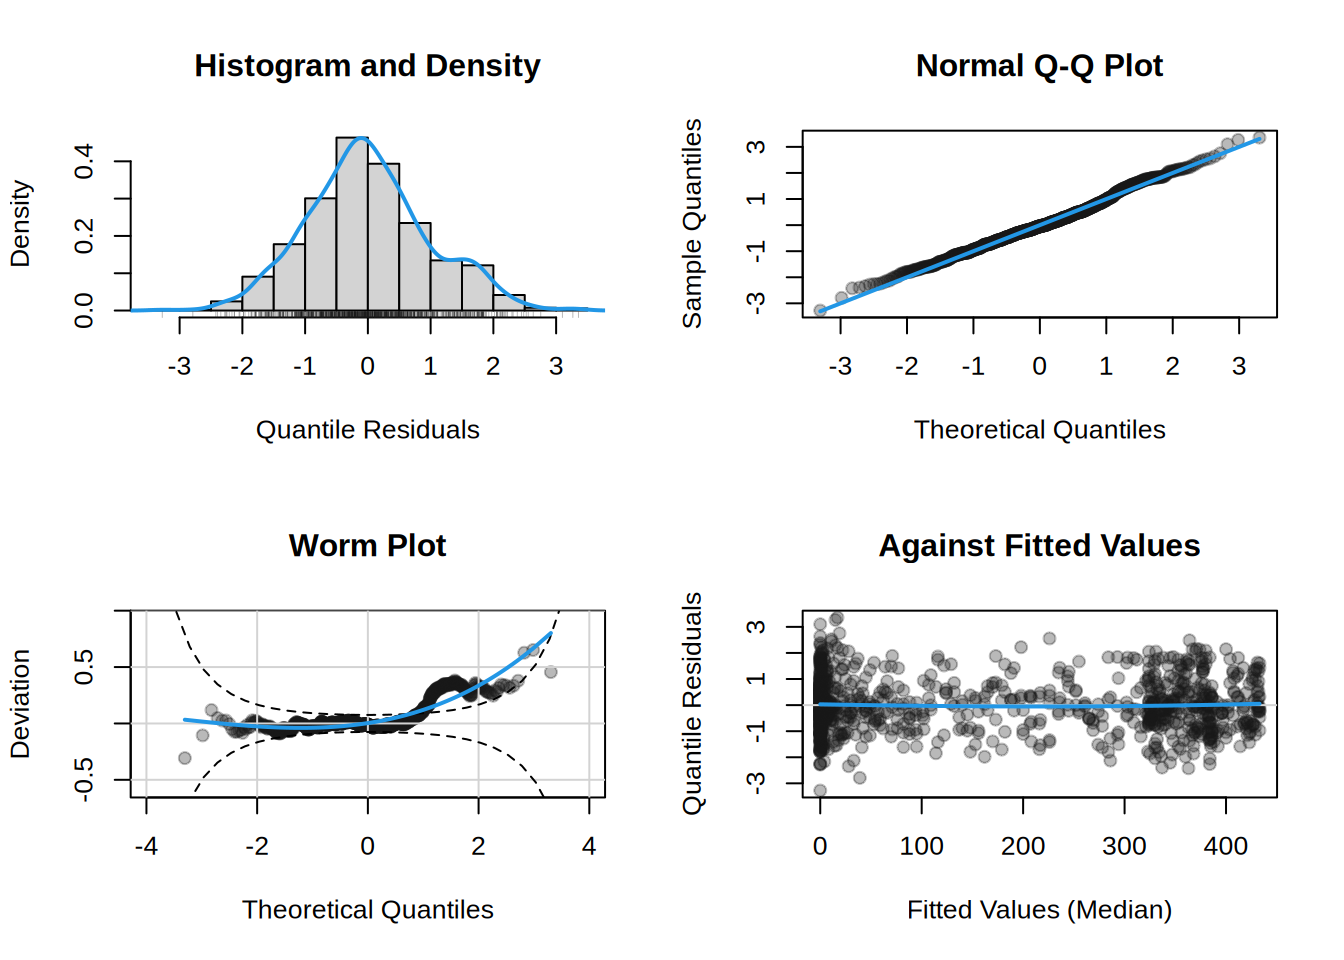
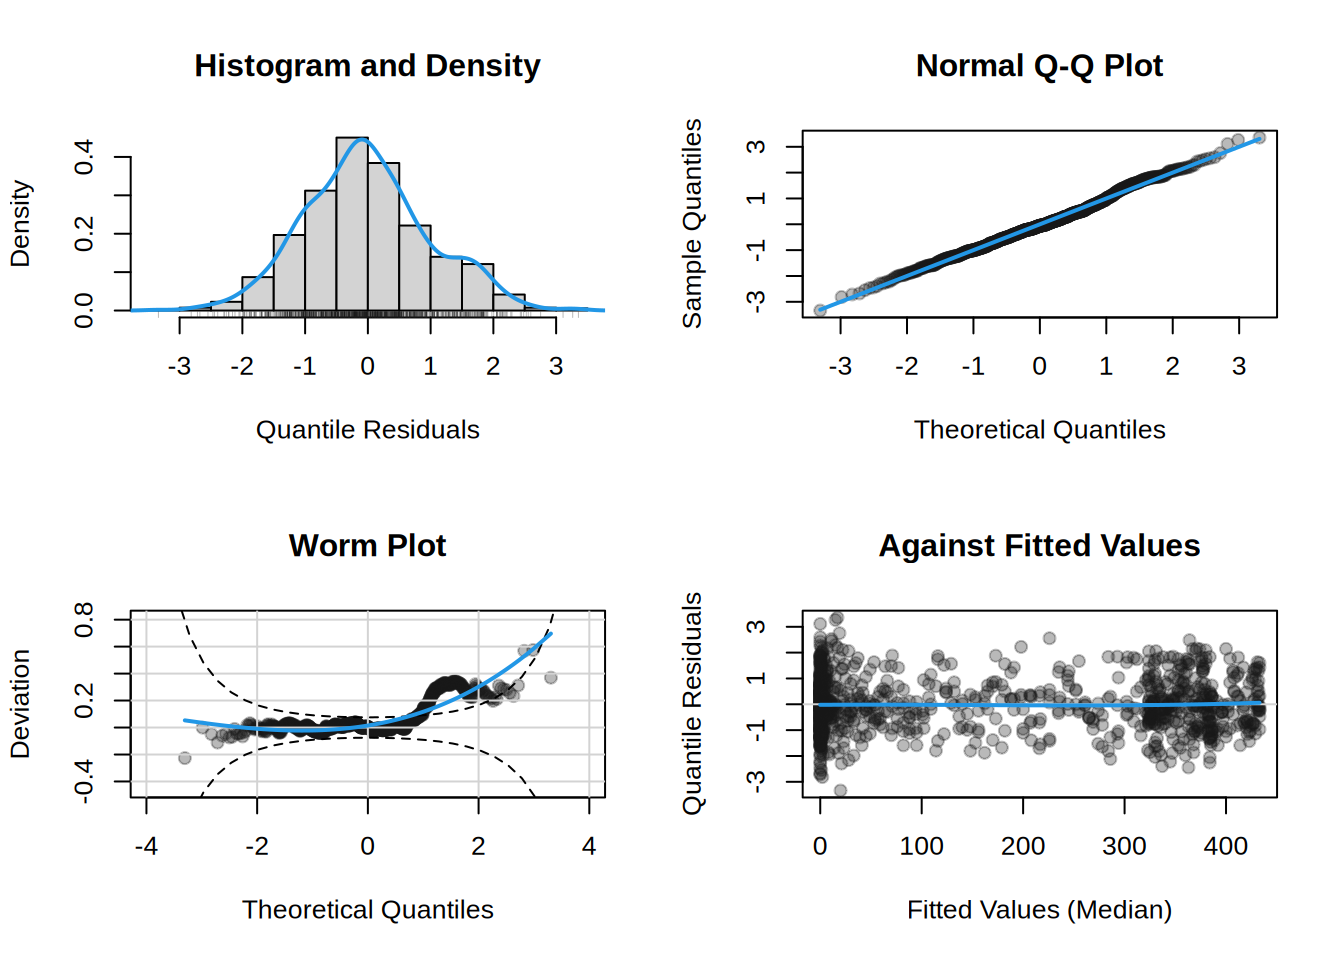
Deploying to gh-pages from @ gamlss-dev/gamlss2@8c155c8d465056094b7d896f2c3e0e79214f2f73 🚀

diff --git a/man/gnet.html b/man/gnet.html
@@ -595,28 +595,27 @@ Control arguments passed to <code>glmnet</code> and the information-criterion-ba
 <div class="cell">
 <div class="code-copy-outer-scaffold"><div class="sourceCode cell-code" id="cb1"><pre class="sourceCode r code-with-copy"><code class="sourceCode r"><span id="cb1-1"><a href="#cb1-1" aria-hidden="true" tabindex="-1"></a><span class="fu">library</span>(<span class="st">"gamlss2"</span>)</span>
 <span id="cb1-2"><a href="#cb1-2" aria-hidden="true" tabindex="-1"></a></span>
-<span id="cb1-3"><a href="#cb1-3" aria-hidden="true" tabindex="-1"></a></span>
+<span id="cb1-3"><a href="#cb1-3" aria-hidden="true" tabindex="-1"></a>air <span class="ot">&lt;-</span> <span class="fu">subset</span>(airquality, <span class="sc">!</span><span class="fu">is.na</span>(Ozone))</span>
 <span id="cb1-4"><a href="#cb1-4" aria-hidden="true" tabindex="-1"></a></span>
-<span id="cb1-5"><a href="#cb1-5" aria-hidden="true" tabindex="-1"></a><span class="do">## transform to categorical</span></span>
-<span id="cb1-6"><a href="#cb1-6" aria-hidden="true" tabindex="-1"></a>rent<span class="sc">$</span>Flc <span class="ot">&lt;-</span> <span class="fu">cut</span>(rent<span class="sc">$</span>Fl, <span class="at">breaks =</span> <span class="fu">seq</span>(<span class="dv">20</span>, <span class="dv">160</span>, <span class="at">by =</span> <span class="dv">10</span>),</span>
-<span id="cb1-7"><a href="#cb1-7" aria-hidden="true" tabindex="-1"></a>  <span class="at">include.lowest =</span> <span class="cn">TRUE</span>)</span>
-<span id="cb1-8"><a href="#cb1-8" aria-hidden="true" tabindex="-1"></a>rent<span class="sc">$</span>Ac <span class="ot">&lt;-</span> <span class="fu">cut</span>(rent<span class="sc">$</span>A, <span class="at">breaks =</span> <span class="fu">seq</span>(<span class="dv">1890</span>, <span class="dv">1990</span>, <span class="at">by =</span> <span class="dv">10</span>),</span>
-<span id="cb1-9"><a href="#cb1-9" aria-hidden="true" tabindex="-1"></a>  <span class="at">include.lowest =</span> <span class="cn">TRUE</span>)</span>
-<span id="cb1-10"><a href="#cb1-10" aria-hidden="true" tabindex="-1"></a></span>
-<span id="cb1-11"><a href="#cb1-11" aria-hidden="true" tabindex="-1"></a><span class="do">## model formula, for each parameter we use</span></span>
-<span id="cb1-12"><a href="#cb1-12" aria-hidden="true" tabindex="-1"></a><span class="do">## the same gnet() model term</span></span>
-<span id="cb1-13"><a href="#cb1-13" aria-hidden="true" tabindex="-1"></a>f <span class="ot">&lt;-</span> R <span class="sc">~</span> <span class="fu">gnet</span>(<span class="sc">~</span>Flc <span class="sc">+</span> Ac <span class="sc">+</span> loc) <span class="sc">|</span> . <span class="sc">|</span> . <span class="sc">|</span> .</span>
-<span id="cb1-14"><a href="#cb1-14" aria-hidden="true" tabindex="-1"></a></span>
-<span id="cb1-15"><a href="#cb1-15" aria-hidden="true" tabindex="-1"></a><span class="do">## estimate model</span></span>
-<span id="cb1-16"><a href="#cb1-16" aria-hidden="true" tabindex="-1"></a>m <span class="ot">&lt;-</span> <span class="fu">gamlss2</span>(f, <span class="at">data =</span> rent, <span class="at">family =</span> BCT)</span>
-<span id="cb1-17"><a href="#cb1-17" aria-hidden="true" tabindex="-1"></a></span>
-<span id="cb1-18"><a href="#cb1-18" aria-hidden="true" tabindex="-1"></a><span class="do">## summary with edf</span></span>
-<span id="cb1-19"><a href="#cb1-19" aria-hidden="true" tabindex="-1"></a><span class="fu">summary</span>(m)</span>
-<span id="cb1-20"><a href="#cb1-20" aria-hidden="true" tabindex="-1"></a></span>
-<span id="cb1-21"><a href="#cb1-21" aria-hidden="true" tabindex="-1"></a><span class="do">## plot coefficient paths</span></span>
-<span id="cb1-22"><a href="#cb1-22" aria-hidden="true" tabindex="-1"></a>sp <span class="ot">&lt;-</span> <span class="fu">specials</span>(m, <span class="at">model =</span> <span class="st">"mu"</span>, <span class="at">term =</span> <span class="st">"gnet("</span>, <span class="at">element =</span> <span class="st">"model"</span>)</span>
-<span id="cb1-23"><a href="#cb1-23" aria-hidden="true" tabindex="-1"></a><span class="fu">print</span>(<span class="fu">class</span>(sp))</span>
-<span id="cb1-24"><a href="#cb1-24" aria-hidden="true" tabindex="-1"></a><span class="fu">plot</span>(sp)</span></code></pre></div><button title="Copy to Clipboard" class="code-copy-button"><i class="bi"></i></button></div>
+<span id="cb1-5"><a href="#cb1-5" aria-hidden="true" tabindex="-1"></a>air<span class="sc">$</span>Tc <span class="ot">&lt;-</span> <span class="fu">cut</span>(air<span class="sc">$</span>Temp, <span class="at">breaks =</span> <span class="fu">seq</span>(<span class="dv">50</span>, <span class="dv">100</span>, <span class="at">by =</span> <span class="dv">10</span>),</span>
+<span id="cb1-6"><a href="#cb1-6" aria-hidden="true" tabindex="-1"></a>  <span class="at">include.lowest =</span> <span class="cn">TRUE</span>)</span>
+<span id="cb1-7"><a href="#cb1-7" aria-hidden="true" tabindex="-1"></a>air<span class="sc">$</span>Wc <span class="ot">&lt;-</span> <span class="fu">cut</span>(air<span class="sc">$</span>Wind, <span class="at">breaks =</span> <span class="fu">seq</span>(<span class="dv">2</span>, <span class="dv">22</span>, <span class="at">by =</span> <span class="dv">4</span>),</span>
+<span id="cb1-8"><a href="#cb1-8" aria-hidden="true" tabindex="-1"></a>  <span class="at">include.lowest =</span> <span class="cn">TRUE</span>)</span>
+<span id="cb1-9"><a href="#cb1-9" aria-hidden="true" tabindex="-1"></a></span>
+<span id="cb1-10"><a href="#cb1-10" aria-hidden="true" tabindex="-1"></a><span class="do">## model formula, for each parameter we use</span></span>
+<span id="cb1-11"><a href="#cb1-11" aria-hidden="true" tabindex="-1"></a><span class="do">## the same gnet() model term</span></span>
+<span id="cb1-12"><a href="#cb1-12" aria-hidden="true" tabindex="-1"></a>f <span class="ot">&lt;-</span> Ozone <span class="sc">~</span> <span class="fu">gnet</span>(<span class="sc">~</span>Tc <span class="sc">+</span> Wc) <span class="sc">|</span> .</span>
+<span id="cb1-13"><a href="#cb1-13" aria-hidden="true" tabindex="-1"></a></span>
+<span id="cb1-14"><a href="#cb1-14" aria-hidden="true" tabindex="-1"></a><span class="do">## estimate model</span></span>
+<span id="cb1-15"><a href="#cb1-15" aria-hidden="true" tabindex="-1"></a>m <span class="ot">&lt;-</span> <span class="fu">gamlss2</span>(f, <span class="at">data =</span> air, <span class="at">family =</span> NO)</span>
+<span id="cb1-16"><a href="#cb1-16" aria-hidden="true" tabindex="-1"></a></span>
+<span id="cb1-17"><a href="#cb1-17" aria-hidden="true" tabindex="-1"></a><span class="do">## summary with edf</span></span>
+<span id="cb1-18"><a href="#cb1-18" aria-hidden="true" tabindex="-1"></a><span class="fu">summary</span>(m)</span>
+<span id="cb1-19"><a href="#cb1-19" aria-hidden="true" tabindex="-1"></a></span>
+<span id="cb1-20"><a href="#cb1-20" aria-hidden="true" tabindex="-1"></a><span class="do">## plot coefficient paths</span></span>
+<span id="cb1-21"><a href="#cb1-21" aria-hidden="true" tabindex="-1"></a>sp <span class="ot">&lt;-</span> <span class="fu">specials</span>(m, <span class="at">model =</span> <span class="st">"mu"</span>, <span class="at">term =</span> <span class="st">"gnet("</span>, <span class="at">element =</span> <span class="st">"model"</span>)</span>
+<span id="cb1-22"><a href="#cb1-22" aria-hidden="true" tabindex="-1"></a><span class="fu">print</span>(<span class="fu">class</span>(sp))</span>
+<span id="cb1-23"><a href="#cb1-23" aria-hidden="true" tabindex="-1"></a><span class="fu">plot</span>(sp)</span></code></pre></div><button title="Copy to Clipboard" class="code-copy-button"><i class="bi"></i></button></div>
 </div>
 
 

diff --git a/man/prodist.gamlss2.html b/man/prodist.gamlss2.html
@@ -670,10 +670,10 @@ GAMLSS-RS iteration  2: Global Deviance = 405.7368 eps = 0.000000     </code></p
 <div class="code-copy-outer-scaffold"><div class="sourceCode cell-code" id="cb16"><pre class="sourceCode r code-with-copy"><code class="sourceCode r"><span id="cb16-1"><a href="#cb16-1" aria-hidden="true" tabindex="-1"></a><span class="do">## simulate random numbers</span></span>
 <span id="cb16-2"><a href="#cb16-2" aria-hidden="true" tabindex="-1"></a><span class="fu">random</span>(d, <span class="dv">5</span>)</span></code></pre></div><button title="Copy to Clipboard" class="code-copy-button"><i class="bi"></i></button></div>
 <div class="cell-output cell-output-stdout">
-<pre><code>       r_1       r_2       r_3       r_4      r_5
-1 18.94509  20.35066  29.41304  29.09199 37.99447
-2 77.00685  45.86359  56.65683  39.83594 50.34155
-3 83.05525 130.04788 143.36812 101.96769 75.81661</code></pre>
+<pre><code>       r_1      r_2       r_3       r_4      r_5
[phone redacted].10170  32.30473  14.39394 19.73267
[phone redacted].67074  32.00466  57.59129 50.44237
[phone redacted].98598 102.68684 128.47488 40.57989</code></pre>
 </div>
 <div class="code-copy-outer-scaffold"><div class="sourceCode cell-code" id="cb18"><pre class="sourceCode r code-with-copy"><code class="sourceCode r"><span id="cb18-1"><a href="#cb18-1" aria-hidden="true" tabindex="-1"></a><span class="do">## density and distribution</span></span>
 <span id="cb18-2"><a href="#cb18-2" aria-hidden="true" tabindex="-1"></a><span class="fu">pdf</span>(d, <span class="dv">50</span> <span class="sc">*</span> <span class="sc">-</span><span class="dv">2</span><span class="sc">:</span><span class="dv">2</span>)</span></code></pre></div><button title="Copy to Clipboard" class="code-copy-button"><i class="bi"></i></button></div>

diff --git a/man/gamlss2.html b/man/gamlss2.html
@@ -740,7 +740,7 @@ edf     7.0490     2.6505         1.001
 *--------
 n = 116 df =  12.7 res.df =  103.3
 Deviance = 933.8795 Null Dev. Red. = 13.78%
-AIC = 959.2803 elapsed =  0.11sec</code></pre>
+AIC = 959.2803 elapsed =  0.15sec</code></pre>
 </div>
 <div class="code-copy-outer-scaffold"><div class="sourceCode cell-code" id="cb6"><pre class="sourceCode r code-with-copy"><code class="sourceCode r"><span id="cb6-1"><a href="#cb6-1" aria-hidden="true" tabindex="-1"></a><span class="do">## plot parameter-specific effects</span></span>
 <span id="cb6-2"><a href="#cb6-2" aria-hidden="true" tabindex="-1"></a><span class="fu">plot</span>(m1, <span class="at">which =</span> <span class="st">"effects"</span>)</span></code></pre></div><button title="Copy to Clipboard" class="code-copy-button"><i class="bi"></i></button></div>
@@ -861,7 +861,7 @@ edf     6.3823        6.2095
 *--------
 n = 1057 df =  14.59 res.df =  1042.41
 Deviance = 10150.8818 Null Dev. Red. = 12.62%
-AIC = 10180.0654 elapsed =  0.22sec</code></pre>
+AIC = 10180.0654 elapsed =  0.28sec</code></pre>
 </div>
 <div class="code-copy-outer-scaffold"><div class="sourceCode cell-code" id="cb16"><pre class="sourceCode r code-with-copy"><code class="sourceCode r"><span id="cb16-1"><a href="#cb16-1" aria-hidden="true" tabindex="-1"></a><span class="do">## effect plots</span></span>
 <span id="cb16-2"><a href="#cb16-2" aria-hidden="true" tabindex="-1"></a><span class="fu">plot</span>(m2)</span></code></pre></div><button title="Copy to Clipboard" class="code-copy-button"><i class="bi"></i></button></div>

diff --git a/man/OL.html b/man/OL.html
@@ -663,7 +663,7 @@ Signif. codes:  0 '***' 0.001 '**' 0.01 '*' 0.05 '.' 0.1 ' ' 1
 *--------
 n = 72 df =  9 res.df =  63
 Deviance = 3479.1493 Null Dev. Red. = -2099.21%
-AIC = 3497.1493 elapsed =  0.03sec</code></pre>
+AIC = 3497.1493 elapsed =  0.04sec</code></pre>
 </div>
 <div class="code-copy-outer-scaffold"><div class="sourceCode cell-code" id="cb7"><pre class="sourceCode r code-with-copy"><code class="sourceCode r"><span id="cb7-1"><a href="#cb7-1" aria-hidden="true" tabindex="-1"></a><span class="do">## compare coefficients</span></span>
 <span id="cb7-2"><a href="#cb7-2" aria-hidden="true" tabindex="-1"></a><span class="fu">coef</span>(m1)</span></code></pre></div><button title="Copy to Clipboard" class="code-copy-button"><i class="bi"></i></button></div>